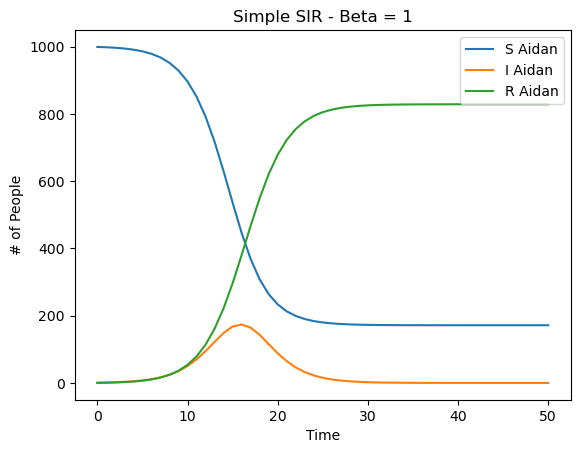
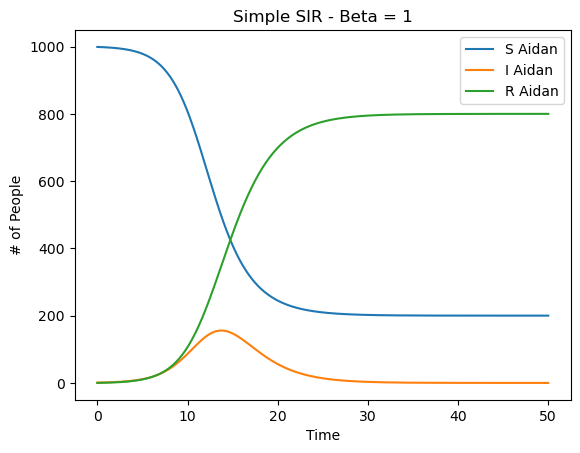
Increased Euler resolution

diff --git a/Q1_SIR_simulations.py b/Q1_SIR_simulations.py
@@ -1,10 +1,10 @@
 import SIR_utils as sir
 
-ta, Sa, Ia, Ra = sir.simple_SIR(S0=999, I0=1, R0=0, beta=1, gamma=0.5, dt=1, tmax=50)
+ta, Sa, Ia, Ra = sir.simple_SIR(S0=999, I0=1, R0=0, beta=1, gamma=0.5, dt=0.1, tmax=50)
 sir.plotSIR(ta, Sa, Ia, Ra, 'Time', '# of People', 'Simple SIR - Beta = 1', 'SIR_sim_A.png')
 
-tb, Sb, Ib, Rb = sir.simple_SIR(S0=999, I0=1, R0=0, beta=1.5, gamma=0.5, dt=1, tmax=50)
+tb, Sb, Ib, Rb = sir.simple_SIR(S0=999, I0=1, R0=0, beta=1.5, gamma=0.5, dt=0.1, tmax=50)
 sir.plotSIR(tb, Sb, Ib, Rb, 'Time', '# of People', 'Simple SIR - Beta = 1.5', 'SIR_sim_B.png')
 
-tc, Sc, Ic, Rc = sir.simple_SIR(S0=999, I0=1, R0=0, beta=2, gamma=0.5, dt=1, tmax=50)
+tc, Sc, Ic, Rc = sir.simple_SIR(S0=999, I0=1, R0=0, beta=2, gamma=0.5, dt=0.1, tmax=50)
 sir.plotSIR(tc, Sc, Ic, Rc, 'Time', '# of People', 'Simple SIR - Beta = 2', 'SIR_sim_C.png')

diff --git a/SIR_utils.py b/SIR_utils.py
@@ -15,9 +15,16 @@ def simple_SIR(S0, I0, R0, beta, gamma, dt, tmax):
     I_list = [I0]
     R_list = [R0]
     
-    # Get list of times
-    t_list = list(range(0,tmax, dt))
-    
+    # If 0<dt<1, can't use range
+    t_list = []
+    if (dt > 0 and dt < 1):
+        count = 0
+        while (count < tmax):
+            t_list.append(count)
+            count += dt
+    else:  # Get list of times using range
+        t_list = list(range(0,tmax, dt))
+
     # Iterate over all times
     for t in t_list:
         # Calculate instantaneous rates of change
